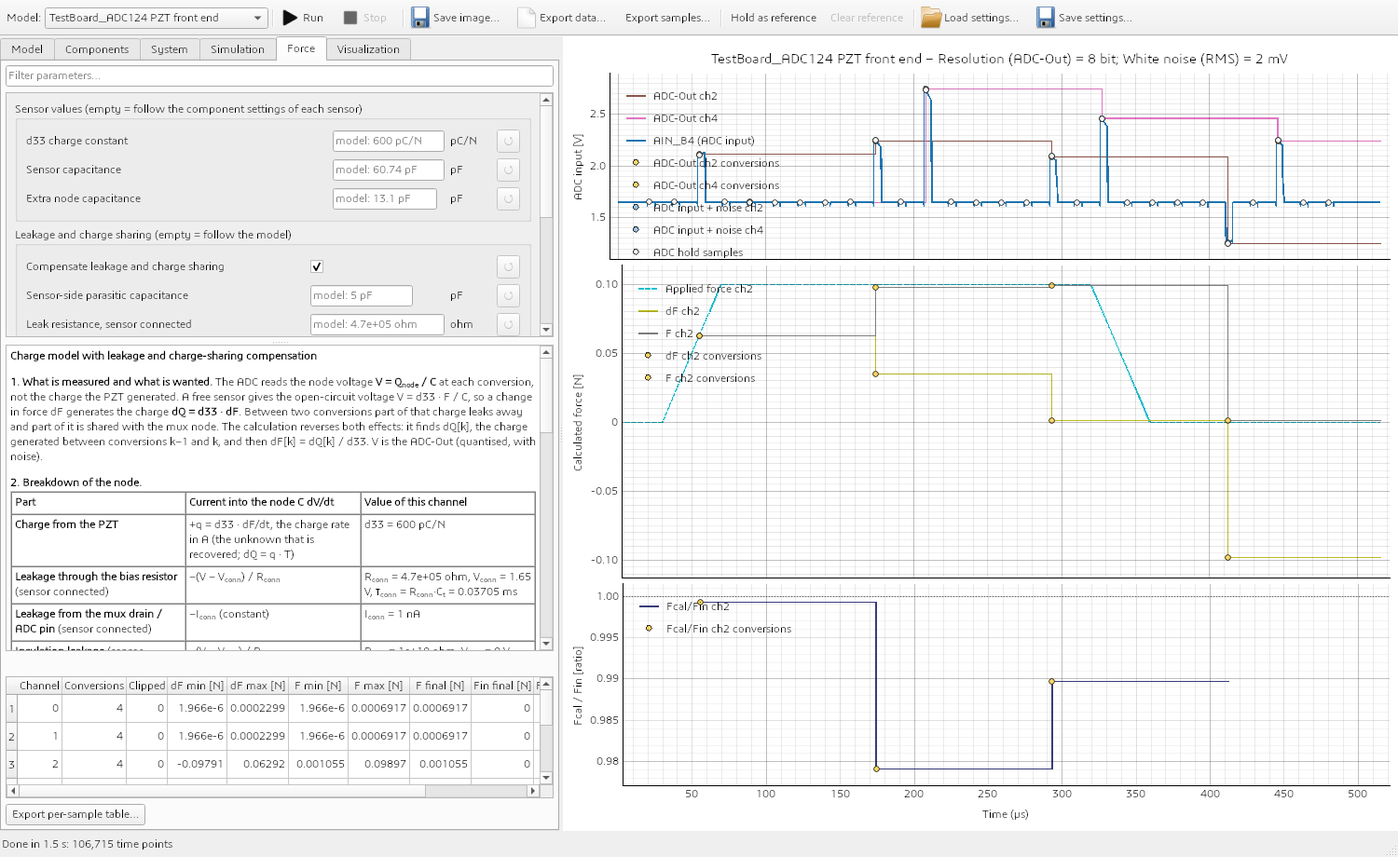
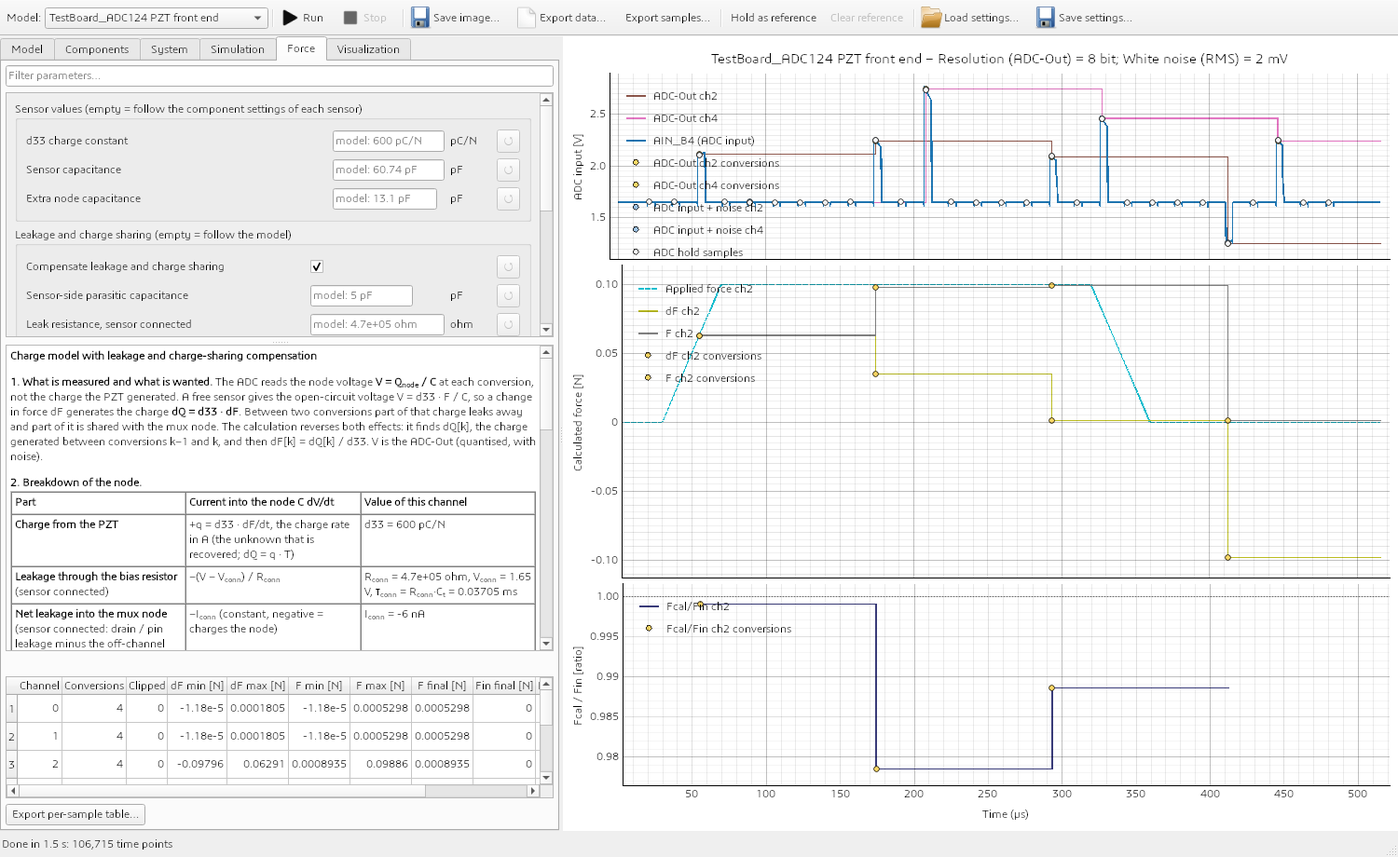
Simulator: off-channel mux leakage in the ADC124 model, connected-leakage override in the Force tab
The ADC124 compensation now includes the 7 off channels (net +6 nA into the
connected node), which removes the force drift of a constantly connected
channel. New Force-tab field 'Leakage current, sensor connected'; the floating
leakage tooltip states it only acts while the sensor is released. Results folder
is ignored.

diff --git a/Qspice/Simulator/tests/test_force_leak.py b/Qspice/Simulator/tests/test_force_leak.py
@@ -143,9 +143,11 @@ def _table(v, windows=True, address=3, same=False):
 def test_overrides_replace_the_model_values_and_follow_when_empty():
     p = resolve_params(FORCE_DEFAULTS, INFO).leak
     assert (p.c_side, p.c_node, p.r_conn, p.r_float, p.i_float) == pytest.approx((5e-12, 13e-12, 470e3, 10e9, 1e-9))
-    s = dict(FORCE_DEFAULTS, c_side_pF=7.0, cextra_pF=20.0, r_conn_ohm=1e6, r_float_ohm=1e8, i_float_nA=2.0)
+    assert p.i_conn == pytest.approx(1e-9)
+    s = dict(FORCE_DEFAULTS, c_side_pF=7.0, cextra_pF=20.0, r_conn_ohm=1e6, r_float_ohm=1e8, i_float_nA=2.0, i_conn_nA=-3.0)
     q = resolve_params(s, INFO).leak
-    assert (q.c_side, q.c_node, q.r_conn, q.r_float, q.i_float) == pytest.approx((7e-12, 20e-12, 1e6, 1e8, 2e-9))
+    assert (q.c_side, q.c_node, q.r_conn, q.r_float, q.i_float, q.i_conn) == pytest.approx((7e-12, 20e-12, 1e6, 1e8, 2e-9, -3e-9))
+    assert resolve_params(dict(FORCE_DEFAULTS, i_conn_nA=0.0), INFO).leak.i_conn == 0.0          # zero is a value, not "follow the model"
     assert resolve_params(dict(FORCE_DEFAULTS, leak_comp=False), INFO).leak is None        # checkbox off = ideal model
     assert resolve_params(FORCE_DEFAULTS, {k: v for k, v in INFO.items() if k != "leak"}).leak is None   # model without data
     for bad in (dict(r_conn_ohm=0.0), dict(r_float_ohm=-1.0), dict(c_side_pF=-1.0)):
@@ -180,7 +182,7 @@ def test_formulas_explain_the_breakdown_and_both_connection_cases():
     const = compute_channel(_table(v, same=True), 3, p, settings, VMID)
     assert (switched.n_switched, switched.n_const) == (3, 0) and (const.n_switched, const.n_const) == (0, 3)
     html = formulas_html(p, 0.8e-3, 3, "VMID", "ADC-Out", const)
-    for text in ("Charge from the PZT", "Leakage through the bias resistor", "Leakage from the mux drain / ADC pin",
+    for text in ("Charge from the PZT", "Leakage through the bias resistor", "Net leakage into the mux node",
                  "Insulation leakage", "Mux off-leakage", "Charge sharing", "Mux switching", "Constant connection",
                  "h[k] = ", "R<sub>conn</sub>&middot;(1 &minus; a)", "0 conversion(s) follow the mux switching",
                  "3 follow on a constant connection", "4.7e+05 ohm", "&rho; = 0.8"):
@@ -221,6 +223,38 @@ def test_models_report_leak_data_from_their_config_and_connection_windows(model_
         cfg["timing"]["vmid_between_channels"] = True
         samples = model.build(cfg)["samples"]
     assert all(s["node_reset"] for s in samples)                          # VMID between the channels
+
+
+def test_floating_leakage_only_acts_while_released_and_connected_leakage_acts_always():
+    v = VMID + np.array([0.3, 0.27, 0.25, 0.23, 0.22])
+    settings = dict(FORCE_DEFAULTS, source="ideal ADC input")
+
+    def run(same, **kw):
+        s = dict(settings, **kw)
+        return compute_channel(_table(v, same=same), 3, resolve_params(s, INFO), s, VMID).F
+
+    # a sensor that stays connected never floats: I_float (0 or 1000 nA) changes nothing
+    assert run(True, i_float_nA=0.0) == pytest.approx(run(True, i_float_nA=1000.0)) and run(True) == pytest.approx(run(True, i_float_nA=0.0))
+    # with mux switching it does
+    assert not np.allclose(run(False, i_float_nA=0.0), run(False, i_float_nA=1000.0))
+    # the connected leakage acts in both
+    for same in (True, False):
+        assert not np.allclose(run(same, i_conn_nA=0.0), run(same, i_conn_nA=-6.0))
+
+
+def test_adc124_connected_leakage_counts_the_off_channels_of_the_mux():
+    model = model_loader.load_model(QSPICE_DIR / "TestBoard_ADC124")
+    cfg = model.default_config()
+    assert model.sensor_info(cfg)[2]["leak"]["i_conn_A"] == pytest.approx(-6e-9)             # 1 nA drain leakage - 7 x 1 nA S->D
+    cfg["mux"].update(ileak_d_nA=2.0, ileak_s_off_nA=0.5, leak_scale=2.0)
+    leak = model.sensor_info(cfg)[2]["leak"]
+    assert leak["i_conn_A"] == pytest.approx((2.0 - 7 * 0.5) * 2e-9) and leak["i_float_A"] == pytest.approx(1e-9)
+
+
+def test_7953_pin_leakage_goes_to_ground_so_no_off_channel_current_reaches_the_node():
+    model = model_loader.load_model(QSPICE_DIR / "TestBoard_7953")
+    leak = model.sensor_info(model.default_config())[2]["leak"]
+    assert leak["i_conn_A"] == pytest.approx(leak["i_float_A"]) and leak["i_conn_A"] > 0     # the pin leakage of the datasheet only
 
 
 def test_adc124_windows_follow_the_park_mode_and_the_vmid_visit():
@@ -267,7 +301,7 @@ def test_force_tab_has_the_leakage_fields_with_model_hints_and_default_on(window
     assert window.force["leak_comp"] is True and _row(window, "force.leak_comp").editor.isChecked()
     labels = [r.item["label"] for r in window.force_tab.form.rows]
     for name in ("Compensate leakage and charge sharing", "Sensor-side parasitic capacitance", "Leak resistance, sensor connected",
-                 "Leak resistance, sensor floating", "Leakage current, sensor floating"):
+                 "Leak resistance, sensor floating", "Leakage current, sensor floating", "Leakage current, sensor connected"):
         assert name in labels
     hints = {p: _row(window, p).editor.placeholderText() for p in
              ("force.r_conn_ohm", "force.r_float_ohm", "force.i_float_nA", "force.c_side_pF", "force.cextra_pF")}

diff --git a/Qspice/Simulator/qspice_sim/force_calc.py b/Qspice/Simulator/qspice_sim/force_calc.py
@@ -41,6 +41,7 @@ FORCE_DEFAULTS: dict = {
     "r_conn_ohm": None,         # leak resistance of the node while the sensor is connected (None = follow the model)
     "r_float_ohm": None,        # leak resistance of the floating sensor (None = follow the model)
     "i_float_nA": None,         # constant leakage current of the floating sensor (None = follow the model)
+    "i_conn_nA": None,          # net constant leakage current into/out of the connected node (None = follow the model)
 }
 
 RATIO_FRACTION = 0.01
@@ -113,6 +114,7 @@ def _resolve_leak(settings: dict, info: dict, c_sensor: float) -> LeakParams | N
     raw = info.get("leak")
     if not raw or not settings.get("leak_comp", True):
         return None
+    raw = {"i_conn_A": 0.0, **raw}
 
     def pick(key: str, raw_key: str, scale: float) -> float:
         return float(raw[raw_key]) if settings.get(key) is None else float(settings[key]) * scale
@@ -120,7 +122,7 @@ def _resolve_leak(settings: dict, info: dict, c_sensor: float) -> LeakParams | N
     c_node = float(raw["c_node_F"]) if settings.get("cextra_pF") is None else float(settings["cextra_pF"]) * 1e-12
     leak = LeakParams(c_side=pick("c_side_pF", "c_side_F", 1e-12), c_node=c_node,
                       r_conn=pick("r_conn_ohm", "r_conn_ohm", 1.0), v_conn=float(raw["v_conn_V"]),
-                      i_conn=float(raw.get("i_conn_A", 0.0)),
+                      i_conn=pick("i_conn_nA", "i_conn_A", 1e-9),
                       r_float=pick("r_float_ohm", "r_float_ohm", 1.0), v_float=float(raw["v_float_V"]),
                       i_float=pick("i_float_nA", "i_float_A", 1e-9))
     if leak.c_side < 0 or leak.c_node < 0:
@@ -313,12 +315,13 @@ def _leak_formulas_html(params: SensorParams, live: str, first: str, source: str
         "<td>&minus;(V &minus; V<sub>conn</sub>) / R<sub>conn</sub></td>"
         f"<td>R<sub>conn</sub> = {_eng(L.r_conn, 'ohm')}, V<sub>conn</sub> = {_eng(L.v_conn, 'V')}, "
         f"&tau;<sub>conn</sub> = R<sub>conn</sub>&middot;C<sub>t</sub> = {_eng(tau_c, 'ms', 1e3)}</td></tr>"
-        "<tr><td><b>Leakage from the mux drain / ADC pin</b> (sensor connected)</td><td>&minus;I<sub>conn</sub> (constant)</td>"
+        "<tr><td><b>Net leakage into the mux node</b> (sensor connected: drain / pin leakage minus the off-channel leakage of the mux)</td>"
+        "<td>&minus;I<sub>conn</sub> (constant, negative = charges the node)</td>"
         f"<td>I<sub>conn</sub> = {_eng(L.i_conn, 'nA', 1e9)}</td></tr>"
         "<tr><td><b>Insulation leakage</b> (sensor floating)</td><td>&minus;(V &minus; V<sub>float</sub>) / R<sub>float</sub></td>"
         f"<td>R<sub>float</sub> = {_eng(L.r_float, 'ohm')}, V<sub>float</sub> = {_eng(L.v_float, 'V')}, "
         f"&tau;<sub>float</sub> = R<sub>float</sub>&middot;C<sub>s</sub> = {_eng(tau_f, 'ms', 1e3)}</td></tr>"
-        "<tr><td><b>Mux off-leakage / pin leakage</b> (sensor floating)</td><td>&minus;I<sub>float</sub> (constant)</td>"
+        "<tr><td><b>Mux off-leakage / pin leakage</b> (sensor floating; only used while the sensor is released)</td><td>&minus;I<sub>float</sub> (constant)</td>"
         f"<td>I<sub>float</sub> = {_eng(L.i_float, 'nA', 1e9)}</td></tr>"
         "<tr><td><b>Charge sharing</b> at every (re)connection to the mux node</td>"
         "<td>not a current: V &rarr; &rho;&middot;V + (1 &minus; &rho;)&middot;V<sub>conn</sub>, &rho; = C<sub>s</sub> / C<sub>t</sub></td>"

diff --git a/Qspice/Simulator/tests/test_force_real_qspice.py b/Qspice/Simulator/tests/test_force_real_qspice.py
@@ -84,6 +84,33 @@ def test_compensated_long_pulse_holds_the_applied_force(tmp_path):
     assert np.all(np.abs(cf.F[4:]) < 0.12 * AMP)
 
 
+def test_compensated_one_channel_at_rest_does_not_drift(tmp_path):
+    """A channel that stays connected rests at VMID - (I_drain - 7 I_off) R_bias; with that leakage the force stays at zero."""
+    try:
+        qspice = runner.find_qspice()
+    except runner.SimulationError:
+        pytest.skip("QSPICE is not installed")
+    model = model_loader.load_model(QSPICE_DIR / "TestBoard_ADC124")
+    cfg = model.default_config()
+    cfg["timing"].update(scan_order=[0], n_mux=1, repeat=1, park_on_vmid=False, vmid_visit_after_each=False, num_cycles=100)
+    cfg["adc"]["bits"] = 16
+    cfg["forces"] = []
+    prepared = runner.prepare(model, cfg)
+    raw = runner.run_netlist(prepared.netlist, ["ain"], tmp_path, qspice)
+    try:
+        times = np.array([s["t"] for s in prepared.samples])
+        table = build_sample_table(prepared.samples, np.interp(times, raw.time, raw.column("ain")), model.adc_params(cfg))
+        zero = lambda ch, t: np.zeros(len(t))  # noqa: E731
+        comp = compute_all(table, [0], model.sensor_info(cfg), FORCE_DEFAULTS, cfg["circuit"]["vmid_v"], zero)[0]
+        wrong = model.sensor_info(cfg)
+        wrong[0]["leak"]["i_conn_A"] = 1e-9                                       # the drain leakage alone (the old model value)
+        old = compute_all(table, [0], wrong, FORCE_DEFAULTS, cfg["circuit"]["vmid_v"], zero)[0]
+    finally:
+        raw.close()
+    assert np.max(np.abs(comp.F)) < 1.5e-3                                        # measured below 0.5 mN over 0.8 ms
+    assert np.max(np.abs(old.F)) > 5e-3                                           # about 10 N/s of drift without the off-channel leakage
+
+
 def test_compensated_adc124_plateau_over_many_scan_cycles(tmp_path):
     try:
         qspice = runner.find_qspice()

diff --git a/Qspice/TestBoard_ADC124/build_model.py b/Qspice/TestBoard_ADC124/build_model.py
@@ -20,6 +20,7 @@ HERE = Path(__file__).resolve().parent
 EPS0 = 8.8541878128e-12
 PICO, NANO, MICRO, MILLI = 1e-12, 1e-9, 1e-6, 1e-3
 VMID_ADDR = 7
+N_MUX_CH = 8                      # channels of the TMUX1308A; every one that is off leaks ileak_s_off from its source into the drain
 PIN_NAMES = ["O6_P1B", "O6_P2B", "O6_P3B", "O6_P4B", "O6_P5B", "O7_P4B", "O7_P5B", "VMID"]
 
 
@@ -267,9 +268,11 @@ def leak_info(cfg: dict, addr: int) -> dict:
     # the op-amp differential capacitance sits between the + input and the output of a follower (bootstrapped), only the common-mode one loads the node
     c_node = mux["cd_off_pF"] + c_on_extra + par["muxd_trace_c_pF"] + par["r_bias_par_c_pF"] + op["ccm_pF"]
     ls = mux["leak_scale"]
+    # connected node: the drain leakage discharges it, the off-state source->drain leakage of the other channels charges it
+    i_conn = (mux["ileak_d_nA"] - (N_MUX_CH - 1) * mux["ileak_s_off_nA"]) * NANO * ls
     return {"c_side_F": (par["sensor_trace_c_pF"] + mux["cs_off_pF"]) * PICO, "c_node_F": c_node * PICO,
             "r_conn_ohm": _parallel(c["r_bias_ohm"], sp["rp"]), "v_conn_V": c["vmid_v"],
-            "i_conn_A": mux["ileak_d_nA"] * NANO * ls,
+            "i_conn_A": i_conn,
             "r_float_ohm": _parallel(sp["rins"], sp["rp"]), "v_float_V": 0.0, "i_float_A": mux["ileak_s_off_nA"] * NANO * ls}
 
 
@@ -503,7 +506,7 @@ def build(cfg: dict, with_force: bool = True) -> tuple[str, list[dict]]:
             a(fmt_pwl(f"Vc{addr}", f"c{addr}", ctl[addr]))
     a("")
     a("* ---- TMUX1308A: 8 channels + shared drain parasitics ----")
-    for addr in range(8):
+    for addr in range(N_MUX_CH):
         a(f"Xch{addr} s{addr} muxd c{addr} TMUX_CH")
     a(f"Cd muxd 0 {mux['cd_off_pF'] * PICO:.9e}")
     a(f"Cdtr muxd 0 {par['muxd_trace_c_pF'] * PICO:.9e}")

diff --git a/Qspice/Simulator/qspice_sim/gui/force_tab.py b/Qspice/Simulator/qspice_sim/gui/force_tab.py
@@ -36,7 +36,13 @@ SCHEMA = [
         {"path": "force.r_float_ohm", "label": "Leak resistance, sensor floating", "unit": "ohm", "type": "float", "nullable": True,
          "tip": "Insulation resistance of the floating sensor (to ground). tau = R x C_s. Use a very large value for none."},
         {"path": "force.i_float_nA", "label": "Leakage current, sensor floating", "unit": "nA", "type": "float", "nullable": True,
-         "tip": "Constant current drawn from the floating sensor node (mux off-leakage / pin leakage); positive discharges it."},
+         "tip": "Constant current drawn from the floating sensor node (mux off-leakage / pin leakage); positive discharges it. "
+                "Only used in the time the sensor is released from the mux: it has no effect when the sensor stays connected "
+                "(one channel parked on itself)."},
+        {"path": "force.i_conn_nA", "label": "Leakage current, sensor connected", "unit": "nA", "type": "float", "nullable": True,
+         "tip": "Net constant current drawn from the node while the sensor is connected (mux drain / pin leakage minus the "
+                "off-state leakage of the other channels); positive discharges it, negative charges it. 0 = no connected-node leakage "
+                "in the compensation. Used in every connected phase, so it is the one that matters for a sensor that stays connected."},
     ]},
     {"group": "Extraction", "items": [
         {"path": "force.reference", "label": "Reference for the first sample", "unit": "", "type": "choice",

diff --git a/Qspice/Simulator/tests/test_force_calc.py b/Qspice/Simulator/tests/test_force_calc.py
@@ -188,7 +188,7 @@ def test_force_tab_sits_between_simulation_and_visualization_and_has_the_documen
     labels = [r.item["label"] for r in window.force_tab.form.rows]
     assert labels == ["d33 charge constant", "Sensor capacitance", "Extra node capacitance",
                       "Compensate leakage and charge sharing", "Sensor-side parasitic capacitance", "Leak resistance, sensor connected",
-                      "Leak resistance, sensor floating", "Leakage current, sensor floating",
+                      "Leak resistance, sensor floating", "Leakage current, sensor floating", "Leakage current, sensor connected",
                       "Reference for the first sample", "Voltage source", "Sensors to extract", "Minimum |Fin| for the ratio"]
     assert [r.path for r in window.force_tab.form.rows if r.kind == "choice"] == ["force.reference", "force.source"]
     assert window.force == dict(FORCE_DEFAULTS, leak_comp=False) and FORCE_DEFAULTS["leak_comp"] is True

diff --git a/Qspice/Simulator/qspice_sim/gui/main_window.py b/Qspice/Simulator/qspice_sim/gui/main_window.py
@@ -471,7 +471,8 @@ class MainWindow(QtWidgets.QMainWindow):
             hints.update({"force.c_side_pF": f"model: {leak['c_side_F'] * 1e12:.4g} pF",
                           "force.r_conn_ohm": f"model: {leak['r_conn_ohm']:.4g} ohm",
                           "force.r_float_ohm": f"model: {leak['r_float_ohm']:.4g} ohm",
-                          "force.i_float_nA": f"model: {leak['i_float_A'] * 1e9:.4g} nA"})
+                          "force.i_float_nA": f"model: {leak['i_float_A'] * 1e9:.4g} nA",
+                          "force.i_conn_nA": f"model: {leak.get('i_conn_A', 0.0) * 1e9:.4g} nA"})
         return hints
 
     def _on_force_changed(self, _path: str) -> None:

diff --git a/docs/plans/features/plan-qspice-simulator.prompt.md b/docs/plans/features/plan-qspice-simulator.prompt.md
@@ -118,7 +118,7 @@ Order of work: B1, B4 (small, in the models) -> B2, B3 (derived ADC output) -> B
   Solution of one phase of length d: `V(d) = V_inf + (V0 - V_inf) * exp(-d/(R C))`, `V_inf = Vrest - I R`; with no resistor (`R = inf`) the node drifts linearly, `V(d) = V0 - I d / C`.
 - **Extraction.** For consecutive conversions k-1 -> k of one sensor, V_pred[k] is the voltage the node would show at conversion k if the sensor generated **no** new charge (V[k-1] propagated through the phases above). The difference `V[k] - V_pred[k]` is caused by the new charge `dQ[k]`. The new charge arrives during the interval (assumed uniformly in time, **[assumption]**) and is attenuated by the decay and the charge sharing that follow its arrival; summing the three phases gives the gain `h[k] = dV[k]/dQ[k]` (in V/C), so `dQ[k] = (V[k] - V_pred[k]) / h[k]`, `dF[k] = dQ[k] / d33` (the front-end gain G divides the voltage change around VMID as before), `F = cumsum(dF)`. With no leakage and no node capacitance this reduces exactly to the ideal formula, which stays available (checkbox off). First conversion of a sensor: the node starts at the reference (VMID), `dQ[0] = Ct * (V[0] - V_conn) / a3` (with the reference "first sample", dF[0] = 0 as before).
 - **Timing needed.** Each conversion in the adapter's `samples` list gets optional `t_on` (the instant the sensor was connected, break-before-make delays included), `t_off` (the instant it was released again, or the end of the run) and `node_reset` (the mux node was parked on VMID before this connection). A conversion whose window contains the previous conversion of the same sensor (a sensor that stays connected, see B7) is a single connected phase and has no re-connection. Samples without these keys, or a model without `sensor_info()["leak"]`, are extracted with the ideal formula (and the Force tab says so).
-- **Model parameters (`sensor_info(cfg)[address]["leak"]`).** `c_side_F`, `c_node_F`, `r_conn_ohm`, `v_conn_V`, `i_conn_A`, `r_float_ohm`, `v_float_V`, `i_float_A`. TestBoard_ADC124: bias resistor `circuit.r_bias_ohm` to VMID; mux node = drain capacitance + trace + selected-channel extra + op-amp input + bias parallel capacitance; sensor side = sensor trace + off-state source capacitance; floating: `r_insulation_ohm` to 0 V and the off leakage `mux.ileak_s_off_nA * leak_scale`; connected: `mux.ileak_d_nA * leak_scale`. TestBoard_7953: bias resistor to VMID, `c_mxo_pF` + op-amp input capacitance, pin leakage of Figure 43 at VMID as `i_float` and `i_conn`. The values come from the same config keys that build the netlist, so changing a component changes the correction.
+- **Model parameters (`sensor_info(cfg)[address]["leak"]`).** `c_side_F`, `c_node_F`, `r_conn_ohm`, `v_conn_V`, `i_conn_A`, `r_float_ohm`, `v_float_V`, `i_float_A`. TestBoard_ADC124: bias resistor `circuit.r_bias_ohm` to VMID; mux node = drain capacitance + trace + selected-channel extra + op-amp input + bias parallel capacitance; sensor side = sensor trace + off-state source capacitance; floating: `r_insulation_ohm` to 0 V and the off leakage `mux.ileak_s_off_nA * leak_scale`; connected: `(mux.ileak_d_nA - 7 * mux.ileak_s_off_nA) * leak_scale` (the drain leakage minus the off-state source-to-drain leakage that each of the 7 other channels pushes into the node; found by comparing a one-channel run with the compensation: the node rested 2.8 mV above VMID and F drifted 12 N/s without the off-channel term). TestBoard_7953: bias resistor to VMID, `c_mxo_pF` + op-amp input capacitance, pin leakage of Figure 43 at VMID as `i_float` and `i_conn`. The values come from the same config keys that build the netlist, so changing a component changes the correction.
 - **Force tab.** New group "Leakage and charge sharing": checkbox "Compensate leakage and charge sharing" (default on; only effective when the model gives the data), and overridable fields (empty = follow the model, like the existing ones) `R_conn` [ohm], `R_float` [ohm], `I_float` [nA], sensor-side parasitic capacitance [pF]; the existing "Extra node capacitance" is the mux node capacitance `Cn` in this mode (empty = the model's value). The formula panel shows the compensation formulas with the live numbers (tau_conn, tau_float, rho). Changing any of these replots without a run and the settings are saved with Save / Load settings.
 - **Known limits (written in the README).** Linear first-order model of the node, one effective `Cn`; if the mux goes from one sensor straight to the next without a VMID visit (`node_reset` false) the charge left on the node by the previous sensor is not compensated and the tab says so; voltage-dependent leakage is evaluated at VMID; the new charge is assumed to arrive uniformly between two conversions (a force step shorter than one scan period is therefore recovered with a small timing error).
 - **Tests.** Reduces to the ideal formula without leakage; analytic check: a charge step followed by pure decay (no new charge) gives `dF = 0` after compensation and `F` stays constant; a known `dQ` through the three phases is recovered exactly from the forward-propagated V; the single connected phase (B7 mode); override fields scale the result; replot without run; settings round-trip; samples without timing fall back to the ideal formula; ADC124 and 7953 `sensor_info` leak values equal their config; real QSPICE: a long pulse through the 7953 model, which drifted from 36 mN to 16 mN (ideal formula), is held within a stated tolerance of the applied force with the compensation, and the ADC124 two-pulse scenario is closer to the applied force than the ideal formula.
@@ -136,6 +136,7 @@ Order of work: B1, B4 (small, in the models) -> B2, B3 (derived ADC output) -> B
   6. *Result:* `dF = dQ / d33`, `F = sum dF`, the first-sample rule, the reduction to the ideal formula and the stated limits.
   The numbers shown: Cs, Cn, Ct, rho, R_conn, tau_conn, R_float, tau_float, I_conn, I_float, T of the channel (median interval) and which equation (switching or constant connection) the channel uses (from the node_reset / window data: conversions per case are counted).
 - **Ideal charge model panel** (checkbox off): the same layout with the short formulas only, naming the ignored effects.
+- **Leakage override fields (2026-10-27).** The Force tab gets "Leakage current, sensor connected" (`force.i_conn_nA`, empty = follow the model, 0 = no connected leakage) next to "Leakage current, sensor floating" (`force.i_float_nA`). `I_float` acts only in the released phase, so it has no effect on a sensor that stays connected (one channel parked on itself); the tooltips and the formula panel say so. `I_conn` acts in every connected phase.
 - **Tests.** No `gain` in `FORCE_DEFAULTS` / the tab fields; old settings with `gain` load; `dF` of the ideal model without G; the panel text contains the sections and the live numbers; the constant-connection case is stated when the windows hold the previous conversion, the switching case otherwise.
 - Documentation: Simulator README (formulas without G, the new panel), screenshot regenerated.
 

diff --git a/Qspice/Simulator/README.md b/Qspice/Simulator/README.md
@@ -145,7 +145,7 @@ What the node sees (breakdown of `C dV/dt`):
 | --- | --- | --- |
 | Charge from the PZT | `+q = d33 * dF/dt`, charge rate in A (the unknown; `dQ = q * T`) | `d33` |
 | Leakage through the bias resistor (connected) | `-(V - V_conn) / R_conn` | `R_conn` = bias resistor, `tau_conn = R_conn * Ct` |
-| Leakage from the mux drain / ADC pin (connected) | `-I_conn` (constant) | `I_conn` |
+| Net leakage into the mux node (connected: drain / pin leakage minus the leakage of the off channels) | `-I_conn` (constant, negative charges the node) | `I_conn` |
 | Insulation leakage (floating) | `-(V - V_float) / R_float` | `R_float` = insulation, `tau_float = R_float * Cs` |
 | Mux off-leakage / pin leakage (floating) | `-I_float` (constant) | `I_float` |
 | Charge sharing at every (re)connection | not a current: `V -> rho V + (1 - rho) V_conn` | `Cs`, `Cn`, `rho = Cs / Ct` |
@@ -191,7 +191,7 @@ Without leakage and node capacitance this is exactly `dF = dV * C / d33`. The fi
 with *Reference for the first sample = first sample* dF[0] is 0 as before. The model supplies, from the same config keys that build the
 netlist, `sensor_info()[address]["leak"]` (`c_side_F`, `c_node_F`, `r_conn_ohm`, `v_conn_V`, `i_conn_A`, `r_float_ohm`, `v_float_V`,
 `i_float_A`) and each conversion of `samples` carries `t_on`, `t_off` and `node_reset`. In the Force tab the checkbox, the sensor-side
-capacitance, `R_conn`, `R_float` and `I_float` can be overridden (empty = follow the model; the hint shows the model value) and the
+capacitance, `R_conn`, `R_float`, `I_float` (leakage while the sensor floats) and `I_conn` (net leakage while it is connected) can be overridden (empty = follow the model; the hint shows the model value) and the
 *Extra node capacitance* field is the mux node capacitance `Cn` in this mode. All of it replots without a run and is saved with the
 settings.
 

diff --git a/Qspice/TestBoard_ADC124/README.md b/Qspice/TestBoard_ADC124/README.md
@@ -129,7 +129,7 @@ unverified guesses; several were wrong (Ron 5 Ω vs 120 Ω, leakage 20x too smal
 | `c_feedthrough_pF` | 0.1 | **Derived**: off isolation / crosstalk −90 dB at 1 MHz, 50 Ω (−110 dB at 100 kHz) ⇒ C ≈ 0.1 pF. |
 | `qinj_pC` | −0.8 | §6.7 QINJ −0.8 pC (RS = 0 Ω, CL = 100 pF). Assumed to be the step seen when the channel turns off, opposite sign on turn-on. |
 | `qinj_src_fraction` | 0 | The datasheet figure is the drain-side injection; the source-side share is not specified. |
-| `ileak_s_off_nA`, `ileak_d_nA` | 1 | §6.6 IS(OFF), ID(OFF), ID(ON) ±1 nA typ at 25 °C. Limits: ±25 nA at 85 °C, ±800 nA at 125 °C (use `leak_scale`). The model applies the same sign to every channel, which is the worst case for offset. |
+| `ileak_s_off_nA`, `ileak_d_nA` | 1 | §6.6 IS(OFF), ID(OFF), ID(ON) ±1 nA typ at 25 °C. Limits: ±25 nA at 85 °C, ±800 nA at 125 °C (use `leak_scale`). The model applies the same sign to every channel, which is the worst case for offset. While one channel is connected the other 7 channels each push `ileak_s_off_nA` from their source into the drain, so the connected node sees a net `7 · ileak_s_off_nA − ileak_d_nA` (+6 nA by default, about +2.8 mV across the 470 kΩ bias); the Simulator's leakage compensation uses this net value. |
 | `switch_on_ns` | 25 | §6.8 tTRAN typ 23 ns / tON(EN) typ 26 ns (max 51 / 40). |
 | `switch_off_ns`, `control_edge_ns` | 1, 2 | Chosen so the break-before-make gap is `25 − 1 − 2 = 22 ns`, close to tBBM typ 24 ns (min 1 ns). tOFF(EN) typ 40 ns (max 65) is not modelled separately. |
 | `roff_ohm` | 1e12 | Modelling choice; off isolation comes from the feedthrough capacitor. |
